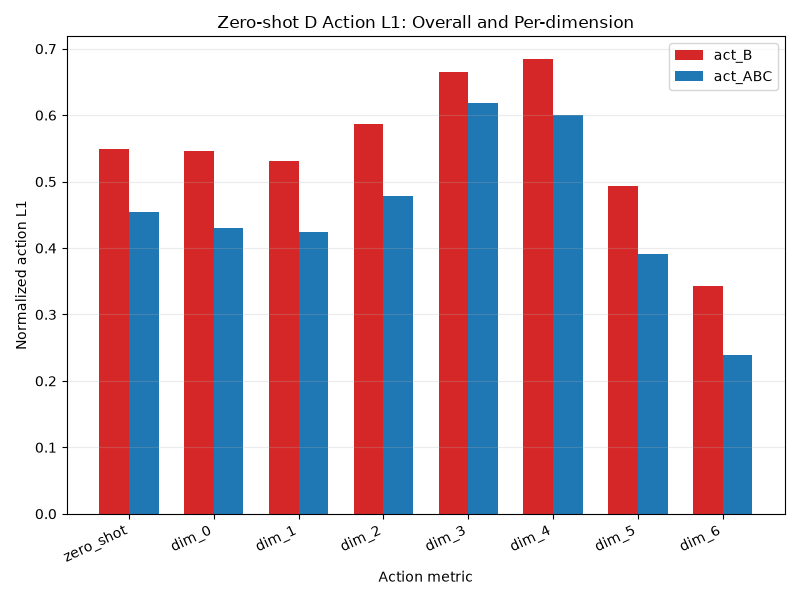
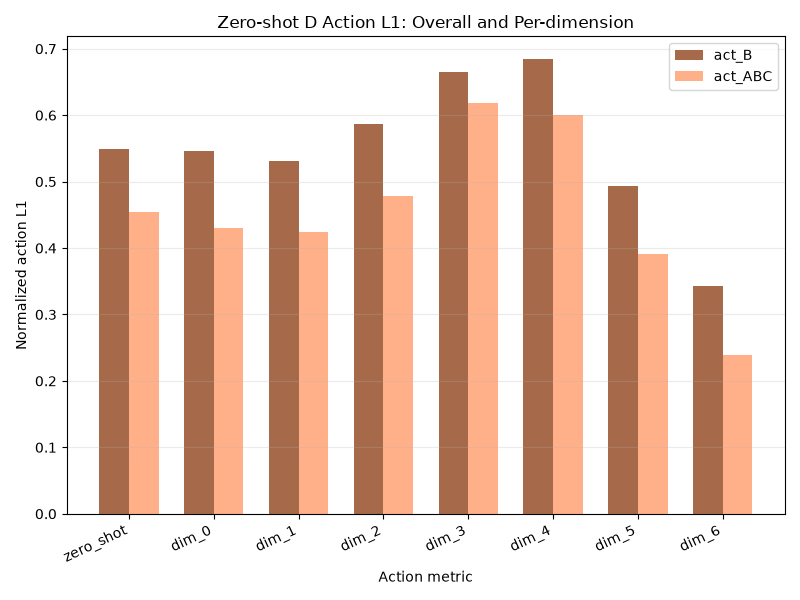
update plot

diff --git a/final2/scripts/plot.py b/final2/scripts/plot.py
@@ -21,11 +21,11 @@ LEGACY_OUTPUTS = [
 RUNS = {
     "act_B": {
         "path": OUTPUT_DIR / "act_B" / "act_B_050000_eval.json",
-        "color": "#d62728",
+        "color": "#a66a4a",
     },
     "act_ABC": {
         "path": OUTPUT_DIR / "act_ABC" / "act_ABC_050000_eval.json",
-        "color": "#1f77b4",
+        "color": "#ffb089",
     },
 }
 
